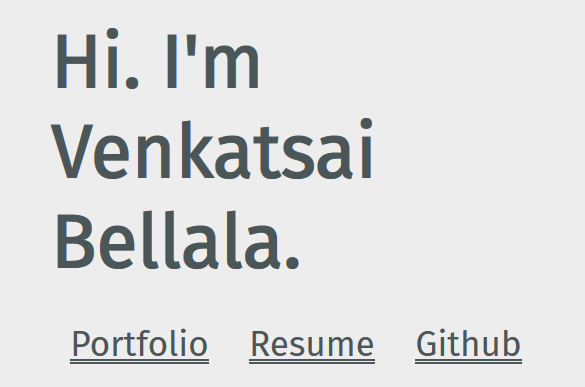
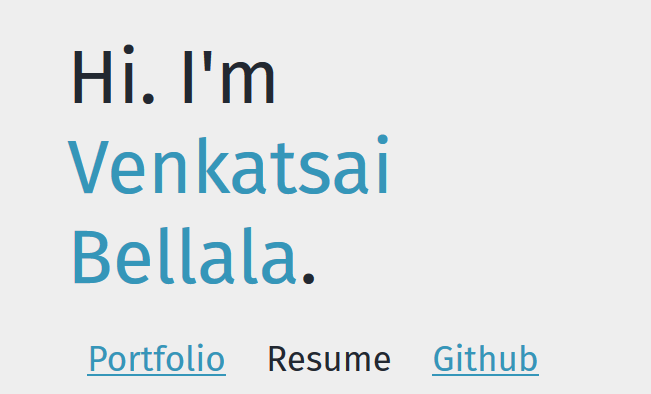
content fixes and clean up

diff --git a/portfolio/index.html b/portfolio/index.html
@@ -5,7 +5,7 @@
 	<meta http-equiv="X-UA-Compatible" content="IE=edge">
 	<meta name="viewport" content="width=device-width, initial-scale=1.0">
 
-	<title>bellala</title>
+	<title>portfolio</title>
 
 	
 	<link rel="icon" href="../favicon.ico" type="image/png"/>
@@ -14,34 +14,30 @@
 	<!-- for adding stuff idk
 	<link rel="stylesheet" href="../css/reset.css">
 	<link rel="stylesheet" href="../css/styles.css">
-	<link rel="stylesheet" href="../css/themes/duo.css">-->
+	-->
 	<link rel="stylesheet" href="../css/duo.min.css">
 </head>
 <body>
 	<main>
-		<h1>stuff i did</h1>
+		<h1>stuff <mark>i</mark> did</h1>
 		<p>disclaimer: page under construction</p>
-		<div id="8995M">
+		<div>
 			<img src="pics/mvrobot.png" alt="Robot Picture"> 
-			<a href="#8995M" title="Permalink">
-				<h2>MVHS Robotics</h2>
-			</a>
+			<h2>MVHS Robotics</h2>
 			<p>
 				I am the lead builder & designer for my robotics team 8995M Mustang Voltage, 2x VEX Worlds Qualifiers. Robot from the 2018-19 season pictured above.
 			</p>
-			<p><a href="https://pleasealliance.me" target="_blank">https://pleasealliance.me</a></p>
+			<p><a href="https://pleasealliance.me" target="_blank" rel="noopener noreferrer">Visit 8995M's Website</a></p>
 		</div>
-		<div id="site">
+		<div>
 			<img src="pics/site.png" alt="screenshot of website"> 
-			<a href="#site" title="Permalink">
-				<h2>bellala.org</h2>
-			</a>
+			<h2>bellala.org</h2>
 			<p>
 				My first foray into the wonderful world of web design. Inspired by the tenets of minimalism. Only uses HTML and CSS.
 			</p>
-			<p><a href="https://github.com/vskbellala/vskbellala.github.io" target="_blank">open source on GitHub</a></p>
+			<p><a href="https://github.com/vskbellala/vskbellala.github.io" target="_blank" rel="noopener noreferrer">open source on GitHub</a></p>
 		</div>
-		<a href=".."><h3>Go Back</h3></a>
+		<a href=".." class="nav">home</a>
 	</main>
 </body>
 </html>

diff --git a/index.html b/index.html
@@ -11,25 +11,25 @@
 	<link rel="icon" href="favicon.ico" type="image/png"/>
 
 	<!-- for adding stuff idk
-	<link rel="stylesheet" href="../css/reset.css">
-	<link rel="stylesheet" href="../css/styles.css">
-	<link rel="stylesheet" href="../css/themes/duo.css">-->
-
+		<link rel="stylesheet" href="css/reset.css">
+	<link rel="stylesheet" href="css/styles.css">-->
+	
 	<link rel="stylesheet" href="css/duo.min.css">
+	
 </head>
 <body>
-	<main style="max-height: 100vh;">
-		<h1>Hi. I'm<br>Venkatsai<br>Bellala.</h1>
+	<main style = "max-height: 100vh;">
+		<h1>Hi. I'm<br><mark>Venkatsai<br>Bellala</mark>.</h1>
 		<div class="links">
-			<a target="_self" href="portfolio/">Portfolio</a>
+			<a href="portfolio/">Portfolio</a>
 			<a>Resume</a>
-			<a target="_blank" href="http://github.com/vskbellala">Github</a>
+			<a target="_blank" href="https://github.com/vskbellala" rel="noopener noreferrer">Github</a>
 		</div>
 		<ul>
 			<li>name's Shri</li>
-			<li>senior at <a target="_blank" href="http://mvhs.ipsd.org">MVHS</a></li>
+			<li>senior at <a target="_blank" href="http://mvhs.ipsd.org" rel="noopener noreferrer">MVHS</a></li>
 			<li>likes all things engineering and medicine</li>
-			<li><a target="_blank" href="https://pleasealliance.me">builds robots</a></li>
+			<li><a target="_blank" href="https://sites.google.com/k12.ipsd.org/meteavalleyrobotics/home" rel="noopener noreferrer">builds robots</a></li>
 			<li>email me: hi at this domain</li>
 		</ul>
 	</main>

diff --git a/404.html b/404.html
@@ -5,7 +5,7 @@
 	<meta charset="utf-8">
 	<meta http-equiv="X-UA-Compatible" content="IE=edge">
 	<meta name="viewport" content="width=device-width, initial-scale=1.0">
-	<title>bellala</title>
+	<title>Error 404</title>
 	<link rel="icon" href="favicon.ico" type="image/png"/>
 	<link rel="stylesheet" href="https://bellala.org/css/duo.min.css">
 </head>
@@ -13,8 +13,8 @@
 <body>
 	<main>
 		<h1>Uh Oh</h1>
-		<p>Looks like you navigated to a page that unfortunately doesn't exist.</p>
-		<a href=".."><h3>Go Back</h3></a>
+		<p>Looks like you tried to navigate to a page that doesn't exist.</p>
+		<a href=".." class="nav">Go Back</a>
 	</main>
 </body>
 
